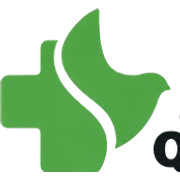
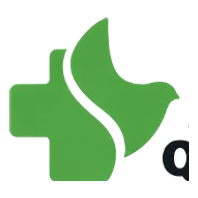
update from bolt agent

diff --git a/src/components/layout/Footer.tsx b/src/components/layout/Footer.tsx
@@ -14,7 +14,7 @@ const bottomLinkClass = 'rounded transition hover:text-brand-green md:hover:unde
 export default function Footer() {
   const copyrightText = `© ${new Date().getFullYear()} Qendra Diagnostikuese Medicare. Të gjitha të drejtat e rezervuara.`;
   return <footer className="bg-white px-4 pb-[110px] pt-6 sm:px-6 sm:py-10 lg:px-8"><div className="mx-auto max-w-7xl overflow-hidden rounded-[32px] border border-brand-green bg-white shadow-card"><div className="grid gap-12 p-6 sm:p-10 md:grid-cols-2 lg:grid-cols-4 lg:p-14">
-    <div><Link to="/" className="inline-block"><img src={LOGO} alt="Medicare Qendër Diagnostike Durrës" className="h-12 w-auto object-contain sm:h-14 md:h-16" loading="lazy" /></Link><p className="mt-5 max-w-xs text-brand-black">Qendër diagnostike me shërbime mjekësore të plota, me staf të specializuar dhe aparaturë moderne në Durrës.</p><div className="mt-6 flex gap-3"><a href={CONTACT.facebookUrl} target="_blank" rel="noopener noreferrer" aria-label="Faqja jonë në Facebook" className="text-brand-green transition hover:text-brand-green-dark"><Facebook className="h-5 w-5" aria-hidden="true" /></a><a href={CONTACT.instagramUrl} target="_blank" rel="noopener noreferrer" aria-label="Profili ynë në Instagram" className="text-brand-green transition hover:text-brand-green-dark"><Instagram className="h-5 w-5" aria-hidden="true" /></a></div></div>
+    <div><Link to="/" className="inline-block"><img src={LOGO} alt="Medicare Qendër Diagnostike Durrës" className="logo-footer" loading="lazy" /></Link><p className="mt-5 max-w-xs text-brand-black">Qendër diagnostike me shërbime mjekësore të plota, me staf të specializuar dhe aparaturë moderne në Durrës.</p><div className="mt-6 flex gap-3"><a href={CONTACT.facebookUrl} target="_blank" rel="noopener noreferrer" aria-label="Faqja jonë në Facebook" className="text-brand-green transition hover:text-brand-green-dark"><Facebook className="h-5 w-5" aria-hidden="true" /></a><a href={CONTACT.instagramUrl} target="_blank" rel="noopener noreferrer" aria-label="Profili ynë në Instagram" className="text-brand-green transition hover:text-brand-green-dark"><Instagram className="h-5 w-5" aria-hidden="true" /></a></div></div>
     <div><h2 className={columnTitleClass}>Kryesoret</h2><ul className="space-y-3">{FOOTER_MAIN_LINKS.map((link) => <li key={link.to}><Link to={link.to} className={linkClass}>{link.label}</Link></li>)}</ul></div>
     <div><h2 className={columnTitleClass}>Shërbimet</h2><ul className="max-h-72 space-y-3 overflow-y-auto pr-2">{SERVICES.filter((service) => service.slug !== 'konsulta').map((service) => <li key={service.slug}><Link to={service.path} className={linkClass}>{service.title}</Link></li>)}{SPECIALTIES.map((specialty) => <li key={specialty.slug}><Link to={`/sherbimet/konsulta/${specialty.slug}`} className={linkClass}>Konsulta {specialty.name}</Link></li>)}</ul></div>
     <div><h2 className={columnTitleClass}>Kontakte</h2><ul className="space-y-4 text-brand-black"><li className="flex gap-3"><MapPin className={contactIconClass} aria-hidden="true" /><span>{FULL_ADDRESS}</span></li><li className="flex gap-3"><Mail className={contactIconClass} aria-hidden="true" /><a href={`mailto:${CONTACT.email}`} className="break-all transition hover:text-brand-green">{CONTACT.email}</a></li><li className="flex gap-3"><Phone className={contactIconClass} aria-hidden="true" /><a href={CONTACT.phoneHref} className="transition hover:text-brand-green">{CONTACT.phone}</a></li><li className="flex gap-3"><Clock className={contactIconClass} aria-hidden="true" /><span>{CONTACT.hours}</span></li></ul></div>

diff --git a/src/hooks/useSeo.ts b/src/hooks/useSeo.ts
@@ -36,7 +36,7 @@ export function useSeo({ title, description, noindex = false, image = DEFAULT_OG
     if (!link) { link = document.createElement('link'); link.rel = 'canonical'; document.head.appendChild(link); }
     link.href = canonical;
     const clinicId = `${SITE_URL}/#clinic`;
-    const clinic: Record<string, unknown> = { '@type': 'MedicalClinic', '@id': clinicId, name: 'Medicare Qendër Diagnostike', url: SITE_URL, logo: `${SITE_URL}/logo-v2.png`, image: `${SITE_URL}/logo-og.png`, telephone: '+355694334944', address: { '@type': 'PostalAddress', streetAddress: `${CONTACT.addressStreet} (${CONTACT.addressNote})`, addressLocality: 'Durrës', addressCountry: 'AL' }, openingHoursSpecification: [{ '@type': 'OpeningHoursSpecification', dayOfWeek: ['Monday', 'Tuesday', 'Wednesday', 'Thursday', 'Friday', 'Saturday'], opens: '08:00', closes: '20:00' }], sameAs: [CONTACT.facebookUrl, CONTACT.instagramUrl], geo: { '@type': 'GeoCoordinates', latitude: CLINIC_LAT, longitude: CLINIC_LNG } };
+    const clinic: Record<string, unknown> = { '@type': 'MedicalClinic', '@id': clinicId, name: 'Medicare Qendër Diagnostike', url: SITE_URL, logo: `${SITE_URL}/logo-v3.png`, image: `${SITE_URL}/logo-og.png`, telephone: '+355694334944', address: { '@type': 'PostalAddress', streetAddress: `${CONTACT.addressStreet} (${CONTACT.addressNote})`, addressLocality: 'Durrës', addressCountry: 'AL' }, openingHoursSpecification: [{ '@type': 'OpeningHoursSpecification', dayOfWeek: ['Monday', 'Tuesday', 'Wednesday', 'Thursday', 'Friday', 'Saturday'], opens: '08:00', closes: '20:00' }], sameAs: [CONTACT.facebookUrl, CONTACT.instagramUrl], geo: { '@type': 'GeoCoordinates', latitude: CLINIC_LAT, longitude: CLINIC_LNG } };
     const graph: Record<string, unknown>[] = [clinic];
     if (structuredData) graph.push(structuredData);
     if (pathname !== '/') graph.push({ '@type': 'BreadcrumbList', itemListElement: [{ '@type': 'ListItem', position: 1, name: 'Kreu', item: SITE_URL }, { '@type': 'ListItem', position: 2, name: title, item: canonical }] });

diff --git a/src/index.css b/src/index.css
@@ -5,7 +5,7 @@
 @layer base {
   html { scroll-behavior: smooth; }
   body { @apply bg-white font-sans text-brand-ink antialiased; }
-  img { aspect-ratio: 4 / 3; }
+  img:not([src*="logo-v3"]):not([src*="favicon"]) { aspect-ratio: 4 / 3; }
   h1, h2, h3, h4 { @apply leading-[1.2]; }
   p { @apply leading-[1.5]; }
 }
@@ -16,7 +16,11 @@
   .section-pad { @apply py-16 md:py-24; }
   .btn-primary { @apply inline-flex items-center justify-center gap-2 rounded-full bg-brand-green px-7 py-3 text-sm font-semibold text-white shadow-md shadow-brand-green/30 transition duration-300 hover:-translate-y-0.5 hover:bg-brand-green-dark hover:shadow-lg focus:outline-none focus-visible:ring-4 focus-visible:ring-brand-green/40; }
   .btn-outline { @apply inline-flex items-center justify-center gap-2 rounded-full border-2 border-brand-black px-7 py-3 text-sm font-semibold text-brand-black transition hover:bg-brand-black hover:text-white focus:outline-none focus-visible:ring-4 focus-visible:ring-brand-green/40; }
-  .eyebrow { @apply text-sm font-semibold uppercase tracking-[0.18em] text-brand-green-dark; }
+  .logo-header { height: 40px; width: min(200px, 52vw); object-fit: contain; flex-shrink: 0; }
+  @media (min-width: 1024px) { .logo-header { height: 64px; width: auto; } }
+  .logo-footer { height: 48px; width: 220px; object-fit: contain; flex-shrink: 0; }
+  @media (min-width: 768px) { .logo-footer { height: 72px; width: auto; } }
+  .logo-drawer { height: 44px; width: 200px; object-fit: contain; flex-shrink: 0; }
 }
 
 @keyframes hero-rise {

diff --git a/src/components/layout/Header.tsx b/src/components/layout/Header.tsx
@@ -29,7 +29,7 @@ export default function Header() {
     <header className="sticky top-0 z-40 border-b border-brand-black/10 bg-white/95 shadow-sm backdrop-blur">
       <div className="container-page flex h-20 items-center justify-between gap-6">
         <Link to="/" className="shrink-0 transition hover:opacity-90">
-          <img src={LOGO} alt="Medicare Qendër Diagnostike Durrës" className="h-14 w-auto object-contain lg:h-[56px]" />
+          <img src={LOGO} alt="Medicare Qendër Diagnostike Durrës" className="logo-header" />
         </Link>
 
         <nav aria-label="Menu kryesore" className="hidden flex-1 items-center justify-center gap-9 lg:flex">

diff --git a/src/data/logo.ts b/src/data/logo.ts
@@ -1,5 +1,5 @@
-import logo from '@/assets/logo-v2.png';
-import favicon from '@/assets/favicon-v2.png';
+import logo from '@/assets/logo-v3.png';
+import favicon from '@/assets/favicon-v3.png';
 
 export const LOGO = logo;
 export const FAVICON = favicon;
